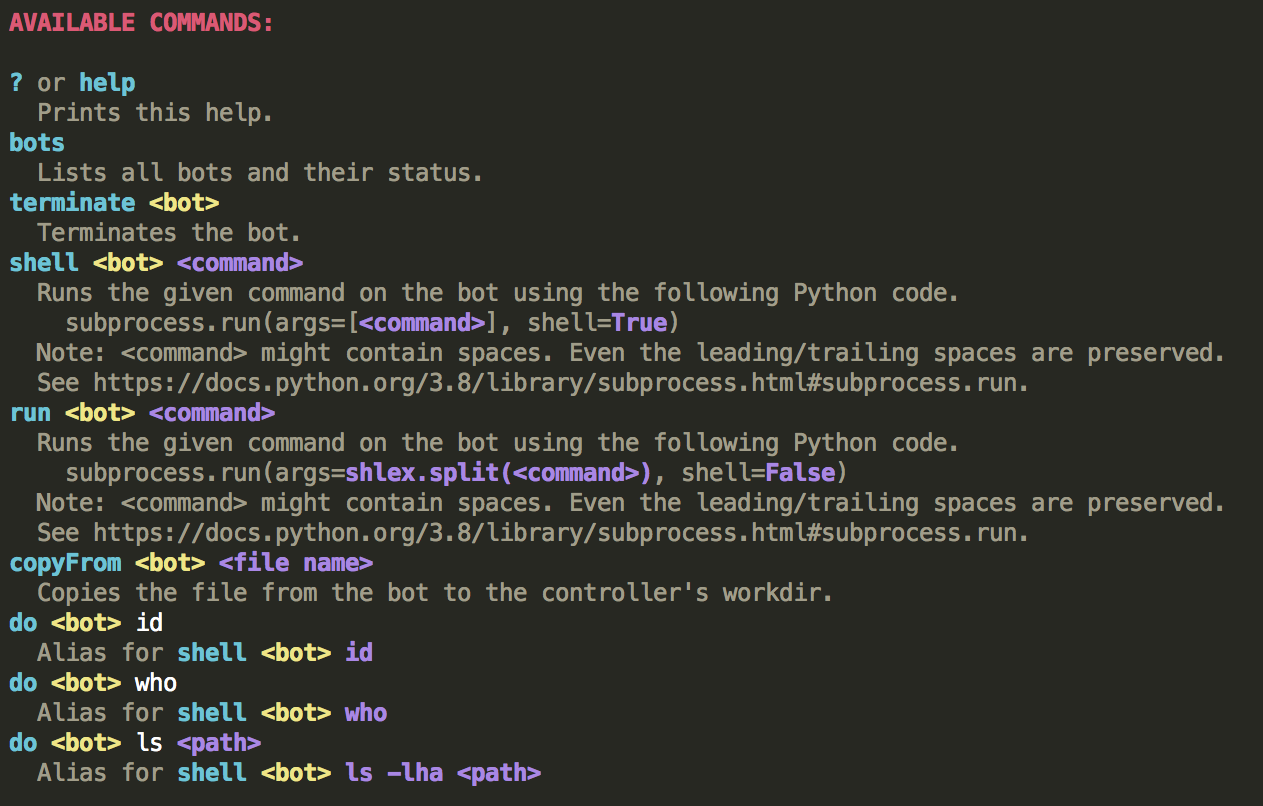
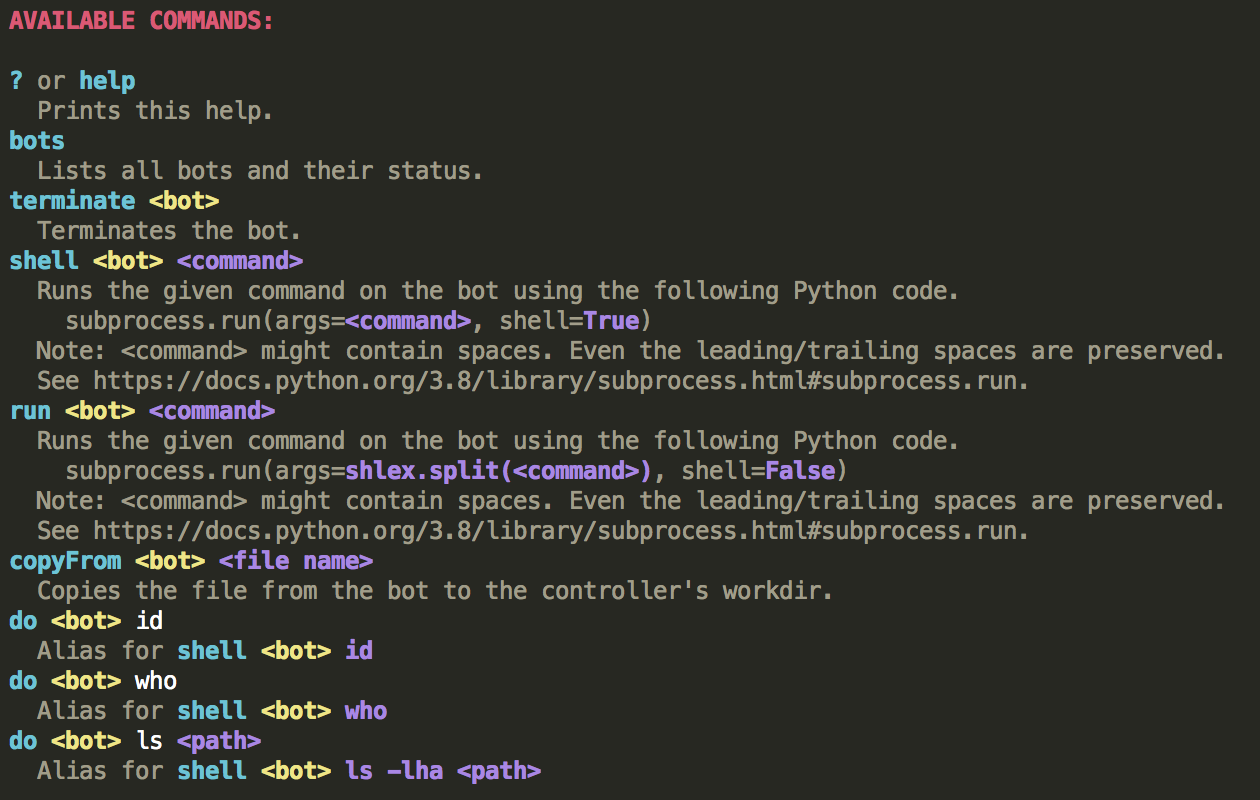
Update outdated controller-commands.png in the README

Changed region(s): [[0.0, 0.1875, 0.9595, 1.0], [0.0, 0.0, 0.2167, 0.0625], [0.0, 0.0938, 0.2167, 0.1875]]

diff --git a/README.md b/README.md
@@ -53,7 +53,7 @@ See the [instructions.txt](./instructions.txt) for the details.
 	* once the controller receives a reply to a pending command, it informs the user
 
 <p align="center">
-<img alt="Available command in the controller" title="Available command in the controller" src="./docs/controller-commands.png" width="640" />
+<img alt="Available command in the controller" title="Available command in the controller" src="./docs/controller-commands.png" width="630" />
 </p>
 
 
